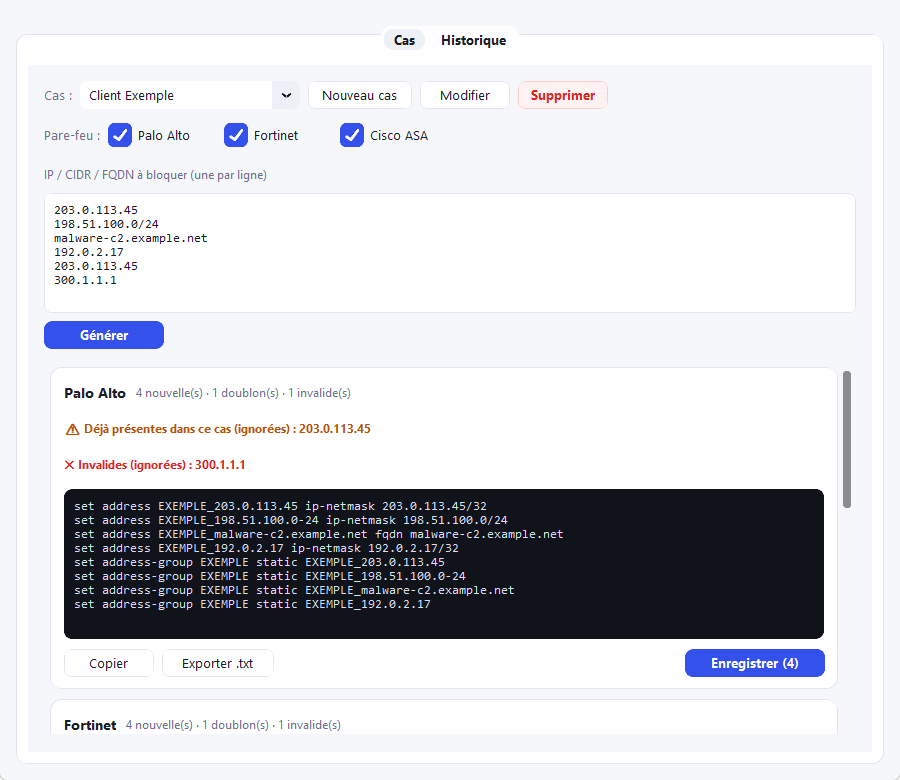
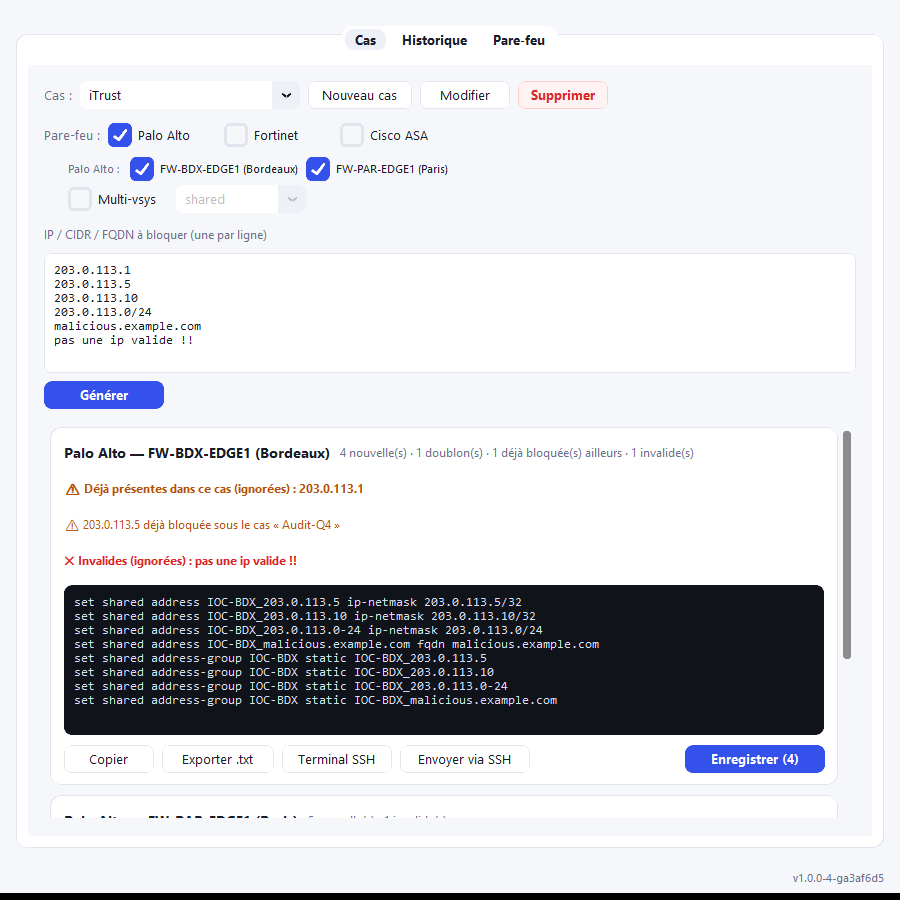
docs: renouvelle les captures d'ecran (registre pare-feu, SSH, A propos)
Captures sur donnees fictives (RFC 5737 / example.*) refletant les
fonctionnalites recentes : devices multi-poles, envoi SSH, multi-vsys.

diff --git a/README.md b/README.md
@@ -18,7 +18,11 @@ Portable (un `.exe` + un dossier `data/`), aucune installation requise.
 
 Captures réalisées sur des données fictives (adresses de documentation RFC 5737, domaines `example.*`).
 
-![Génération des commandes de blocage, avec doublons et valeurs invalides signalés](docs/screenshots/generation-commandes.png)
+![Génération des commandes pour deux pare-feu Palo Alto distincts (Paris, Bordeaux), avec doublon, avertissement inter-cas et valeur invalide signalés](docs/screenshots/generation-commandes.png)
+
+![Registre des pare-feu physiques par pôle/site, avec host SSH et préfixes propres](docs/screenshots/registre-pare-feu.png)
+
+![Écran de confirmation avant envoi SSH : commandes exactes, device ciblé, identifiants jamais stockés](docs/screenshots/envoi-ssh.png)
 
 ![Historique des blocages : recherche, filtres, export CSV](docs/screenshots/historique.png)
 
@@ -67,6 +71,8 @@ Login et mot de passe sont ressaisis à chaque connexion et jamais écrits sur d
 ## Version / À propos
 
 La version affichée (bas de la fenêtre, cliquable) vient de `git describe --tags --always --dirty` : `vX.Y.Z` sur un commit tagué propre, `vX.Y.Z-dirty` s'il reste des modifications non commitées, `vX.Y.Z-N-g<hash>` si on est N commits après le dernier tag. Pour une version propre après un push, tagger le commit (`git tag -a vX.Y.Z -m "..."`, puis `git push origin vX.Y.Z`) avant de relancer `./build.ps1` — qui fige version + date de build dans l'exe au moment du build (`app/_build_info.py`, généré, non versionné). En dev (`python app/main.py`), la version est recalculée à la volée et la date de build affiche « non buildé ».
+
+![Écran « À propos » : version, date de build, auteur, contact](docs/screenshots/a-propos.png)
 
 ## Structure
 
